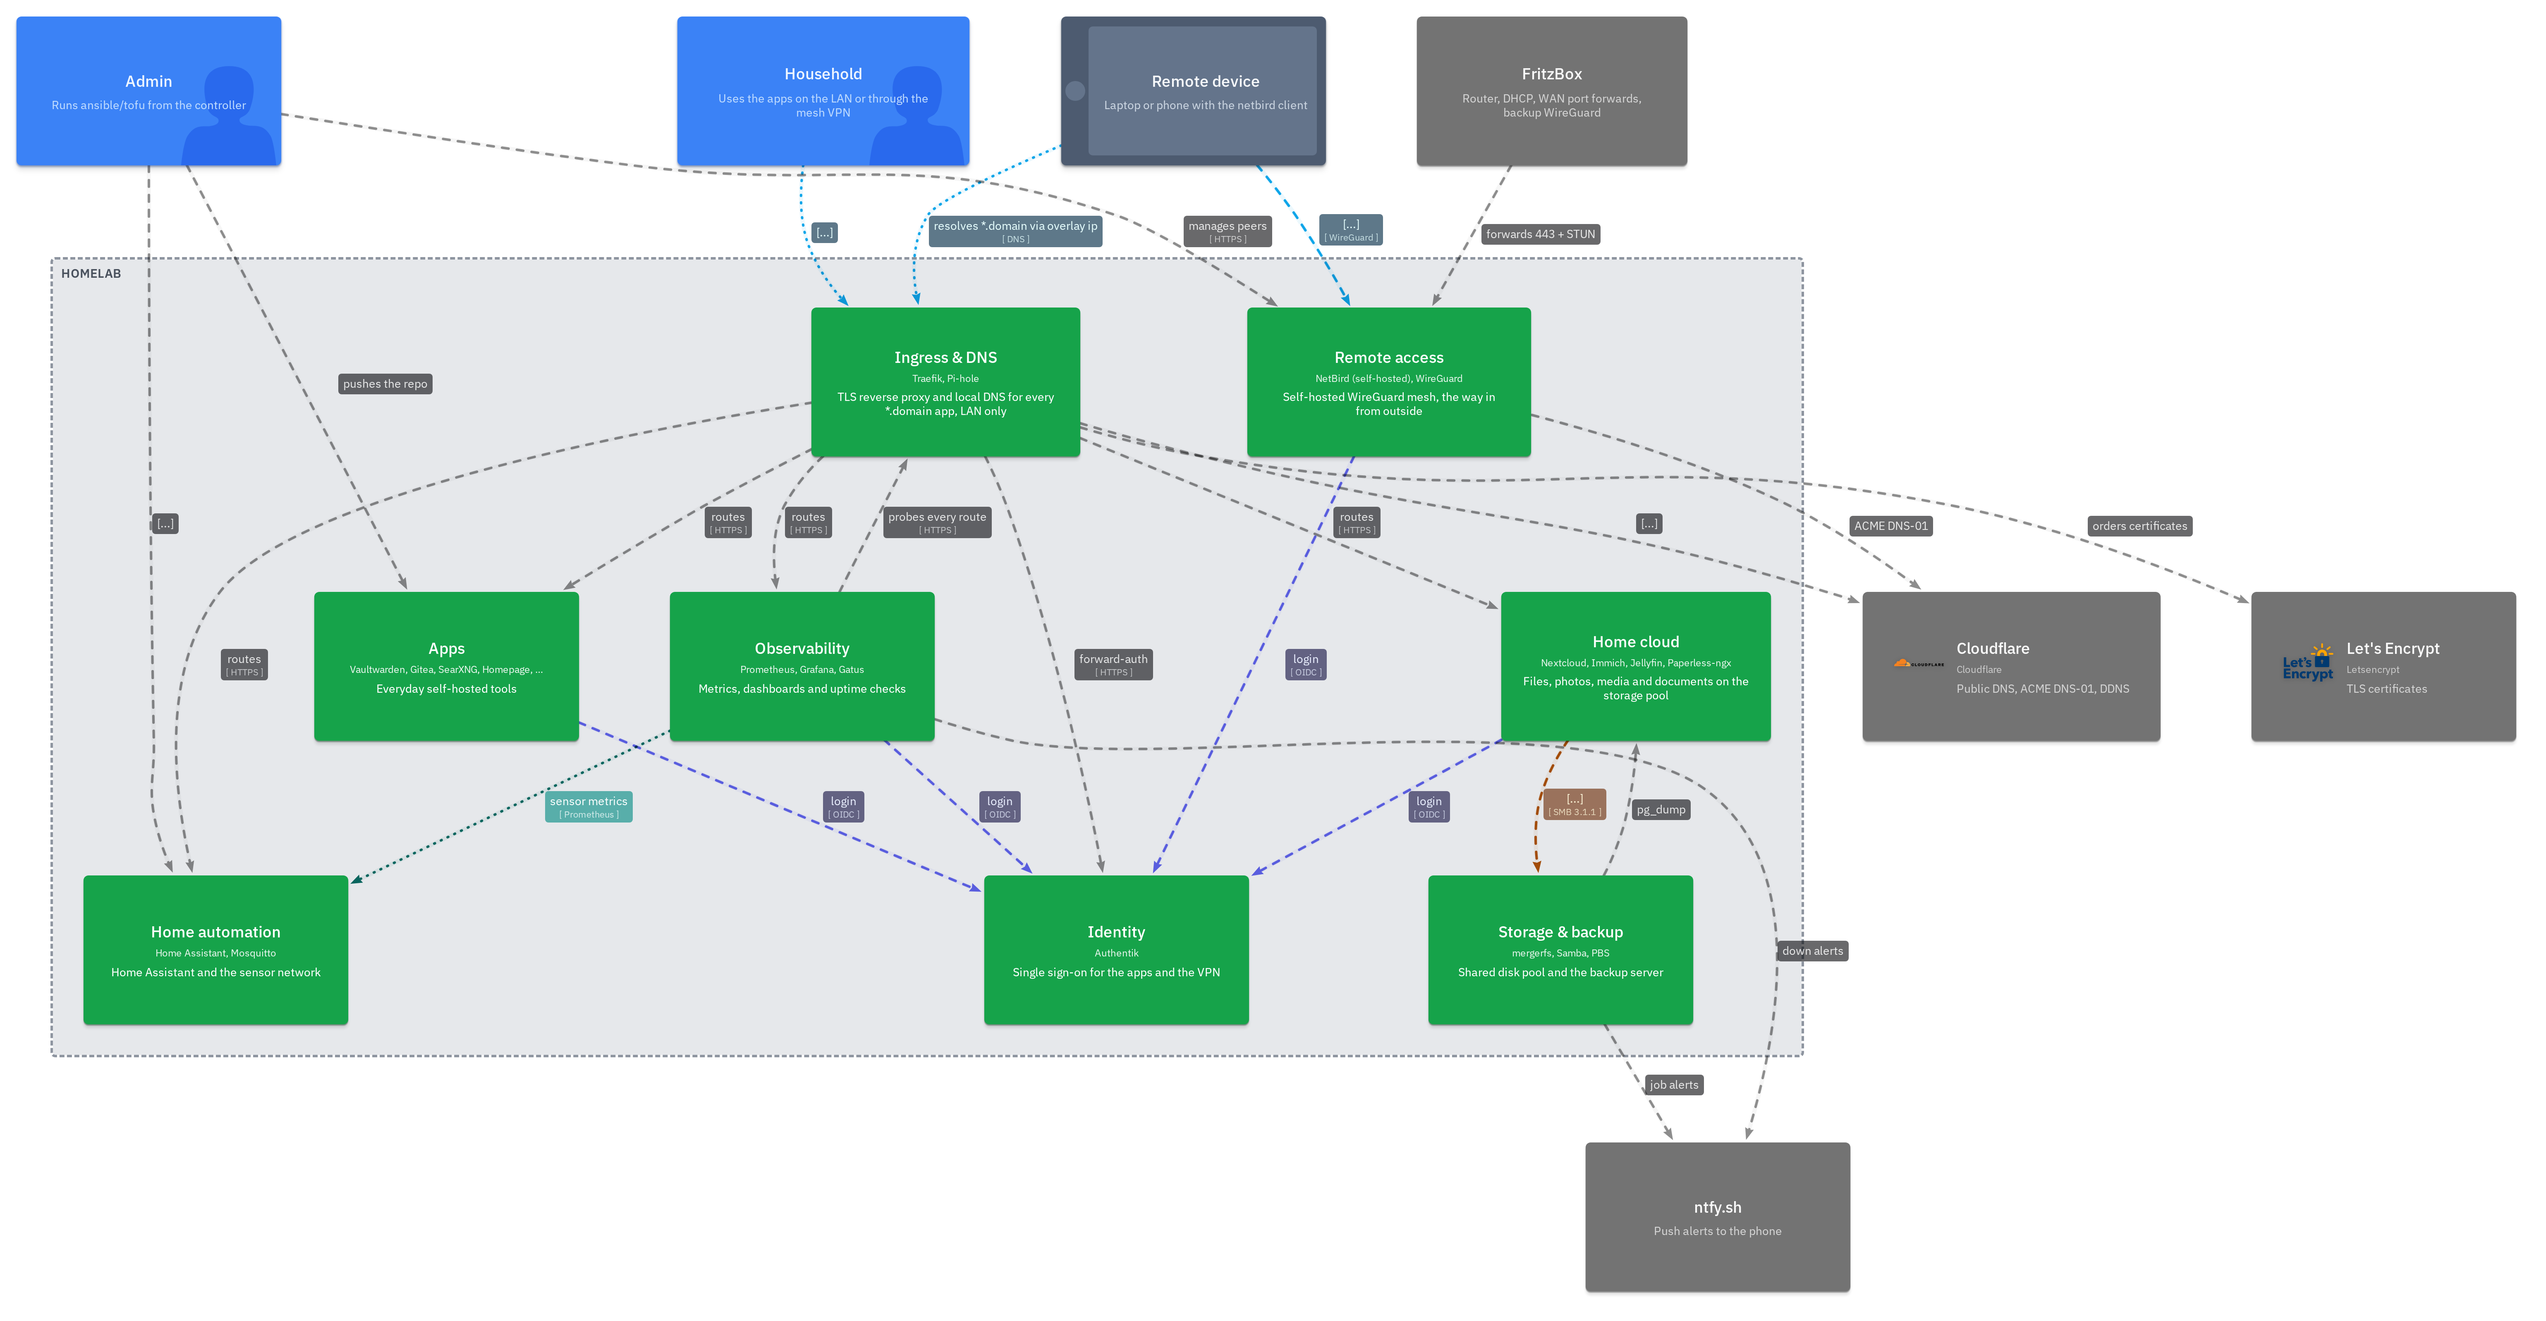
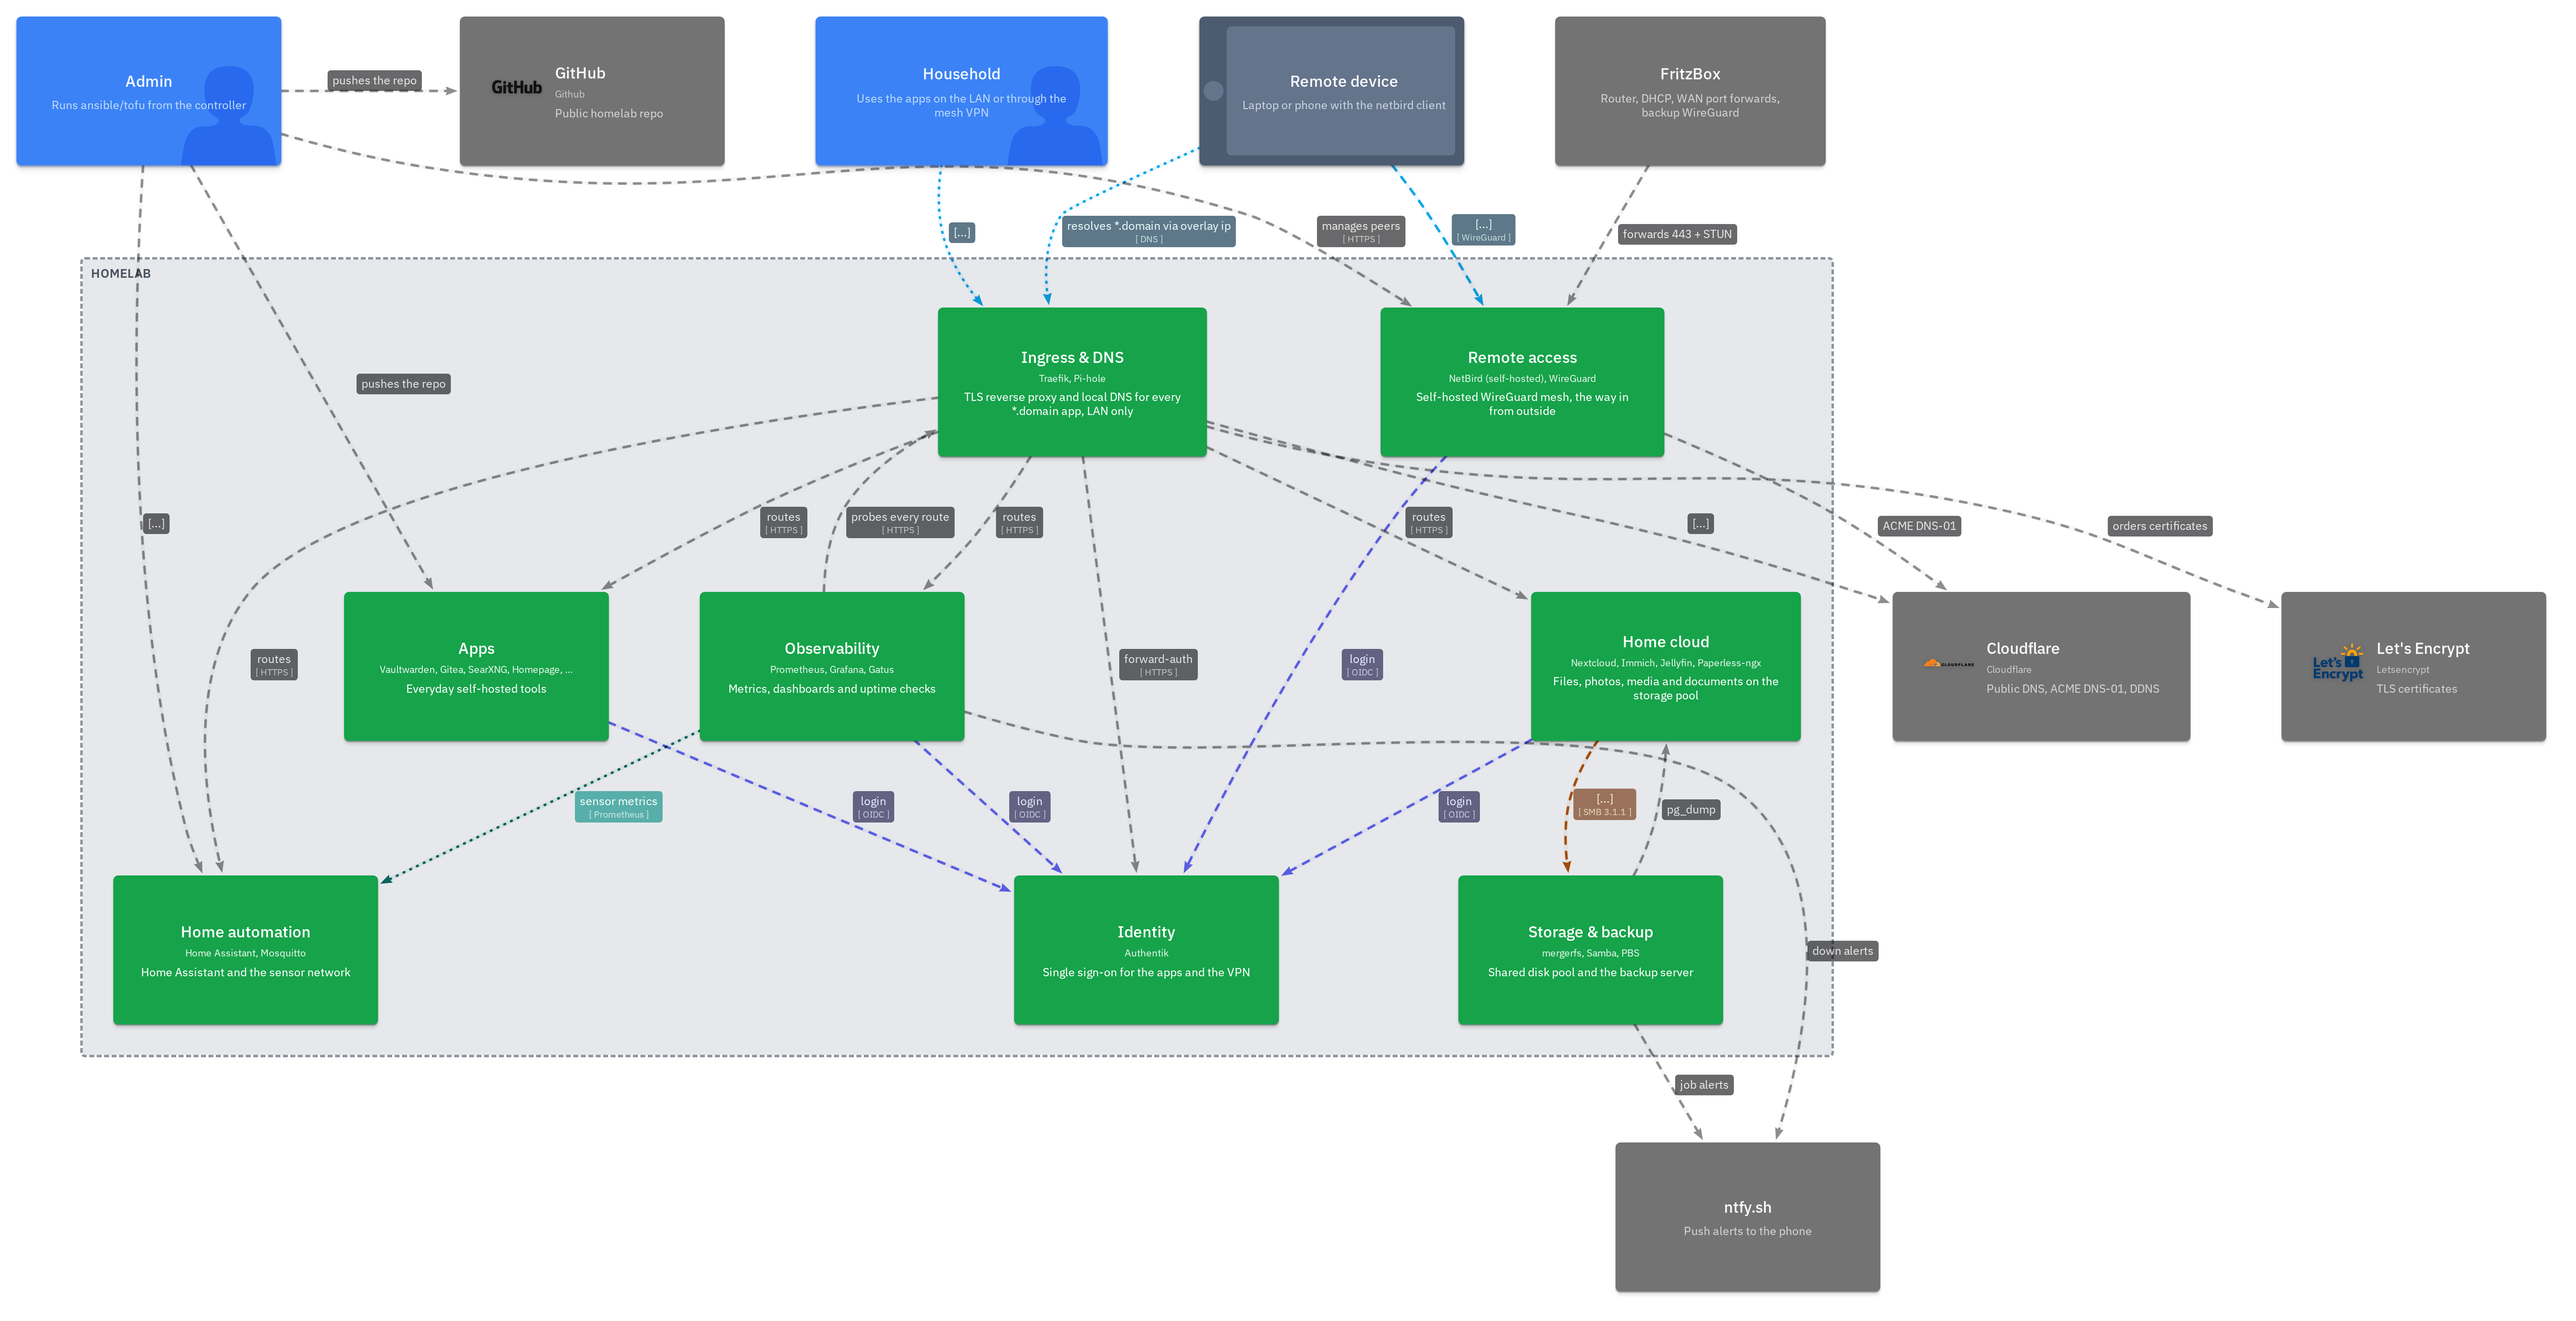
conventions: argument_specs, dials, ddns records; c4: ctl-1, semaphore, github; motd statoverride

diff --git a/docs/adr/0028-iot-gateway-lxc.md b/docs/adr/0028-iot-gateway-lxc.md
@@ -1,6 +1,6 @@
 # 28. IoT gateway LXC: MQTT hub, firmware pulled from the gateway, one shared user without TLS
 
-Status: Accepted, the WiFi side amended by [0029](0029-wifi-card-in-the-gateway.md)
+Status: Accepted
 
 ## Context
 
@@ -23,6 +23,8 @@ Status: Accepted, the WiFi side amended by [0029](0029-wifi-card-in-the-gateway.
 - Two firewall layers on the LAN leg: the PVE guest firewall and ufw, from the same lists
 - Only IoT-facing services go there, no apps
 
+- Enforced by: `iot.fw` (`roles/pve_firewall`) and ufw in the CT (`deploy-iot.yml`), the LAN rules built from the same lists
+
 ## Consequences
 
 - Easier: no VM is in the IoT net, nothing on the LAN needs a route into it
@@ -32,5 +34,7 @@ Status: Accepted, the WiFi side amended by [0029](0029-wifi-card-in-the-gateway.
 - Accepted: anyone on the IoT WiFi with the password can read and fake every sensor, and trigger a flash of what the gateway serves
 - Accepted: MQTT crosses the LAN in plain text to Home Assistant
 - Accepted: no backup, config is in git and the broker state is disposable
+
+- The WiFi side is amended by [0029](0029-wifi-card-in-the-gateway.md)
 
 - Related: [0016](0016-ansible-vault-for-secrets.md) (the password), [0026](0026-ufw-as-guest-firewall.md) (ufw), [0029](0029-wifi-card-in-the-gateway.md) (the WiFi card)

diff --git a/ansible/roles/iot_node/README.md b/ansible/roles/iot_node/README.md
@@ -10,7 +10,7 @@
 ## How it works
 
 1. Regulatory domain: `cfg80211 ieee80211_regdom` in `/etc/modprobe.d` for the next boot, `iw reg set` now if it differs. The CT isn't allowed to set it
-2. `/usr/local/sbin/iot-wifi-back` (from `files/`) plus `/etc/default/iot-wifi` with the card's name
+2. `/usr/local/sbin/iot-wifi-back` (from `files/`) plus `/etc/default/iot-wifi` with the card's name and the pre-start wait
 3. Raw lines in `/etc/pve/lxc/<ct>.conf`, the API can't set them: `lxc.net.9` as `phys` on the card, named `wlan0` in the CT, with `iot_ip`; the script as `lxc.hook.stop` and `lxc.hook.pre-start`
 4. A changed line restarts the CT (`pct shutdown` + `start`, not reboot) and waits for its SSH
 
@@ -25,6 +25,8 @@ The hook: left alone, a stopped CT hands the card back minutes later (with its n
 | `iot_node_country` | `iot_wifi_country` | Regulatory domain |
 | `iot_node_ct_address` | `iot_ip` + prefix | The CT's address on the card, set by LXC |
 | `iot_node_ct_start_timeout` | `120` | Seconds until SSH answers after a restart |
+| `iot_node_ct_stop_timeout` | `60` | Seconds `pct shutdown` waits before the restart |
+| `iot_node_hook_wait` | `30` | Seconds the pre-start hook waits for the card to come back |
 | `iot_node_ct_lines` | see defaults | The raw LXC lines |
 
 ## Notes

diff --git a/ansible/roles/update/README.md b/ansible/roles/update/README.md
@@ -32,7 +32,7 @@
 | `update_check_kernel` | `true` | needrestart's kernel check. `false` on the LXCs, they run the node's kernel |
 | `update_check_quorum` | `false` | `true` in the pve play |
 | `update_quorum_retries`, `update_quorum_delay` | 6, 10 | Tries and seconds for the quorum check after the restarts |
-| `update_summary_hosts` | lxc_containers + docker_hosts + proxmox | Hosts the summary covers, in play order |
+| `update_summary_hosts` | lxc_containers + docker_hosts + podman_hosts + proxmox | Hosts the summary covers, in play order |
 | `update_aide_wait_retries`, `update_aide_wait_delay` | 60, 30 | How long to wait for a running daily AIDE check (tries, seconds) |
 | `update_ntfy_title` | homelab updates | ntfy title |
 | `update_ntfy_headers` | Title + Bearer `ntfy_token` if set | Headers for every ntfy push |

diff --git a/docs/adr/README.md b/docs/adr/README.md
@@ -30,6 +30,6 @@ Format: status, context, decision, consequences.
 - [26. ufw as the guest firewall, also for Podman](0026-ufw-as-guest-firewall.md)
 - [27. Gatus for uptime checks, generated from the apps map](0027-gatus-generated-from-apps-map.md)
 - [28. IoT gateway LXC: MQTT hub, firmware pulled from the gateway, one shared user without TLS](0028-iot-gateway-lxc.md)
-- [29. The IoT WiFi card moves into the gateway LXC, pve-1 leaves the IoT net](0029-wifi-card-in-the-gateway.md)
+- [29. The IoT WiFi card moves into the gateway LXC](0029-wifi-card-in-the-gateway.md)
 - [30. Home Assistant as a HAOS VM on pve-3](0030-haos-vm-on-pve-3.md)
 - [31. Semaphore on a Raspberry Pi as the always-on runner](0031-semaphore-on-a-pi.md)

diff --git a/docs/adr/0030-haos-vm-on-pve-3.md b/docs/adr/0030-haos-vm-on-pve-3.md
@@ -20,6 +20,8 @@ Status: Accepted
 - The PVE guest firewall (`haos.fw`) only lets Traefik and Homepage reach HA's port, the admin hosts also reach it and the Observer directly
 - Behind Traefik: the trusted proxies are set in HA's UI (Settings → Network), HA keeps them in `.storage/http` and ignores an `http:` block in the YAML
 
+- Enforced by: `haos.fw` from `roles/pve_firewall` (`deploy-pve-firewall.yml`)
+
 ## Consequences
 
 - Easier: add-ons and HA's own updates, pve-1 has room for edge

diff --git a/docs/adr/0029-wifi-card-in-the-gateway.md b/docs/adr/0029-wifi-card-in-the-gateway.md
@@ -19,6 +19,8 @@ Status: Accepted
 - pve-1 only keeps the regulatory domain, the CT isn't allowed to set it
 - A hook on pve-1 hands the card back when the CT stops, otherwise it returns minutes later under the wrong name and the next start fails
 
+- Enforced by: `roles/iot_node` (`deploy-iot.yml`) writes the `lxc.net` lines, the hook and the regulatory domain on `iot_node` every run
+
 ## Consequences
 
 - Easier: no node in the IoT net, nothing set up by hand on pve-1
